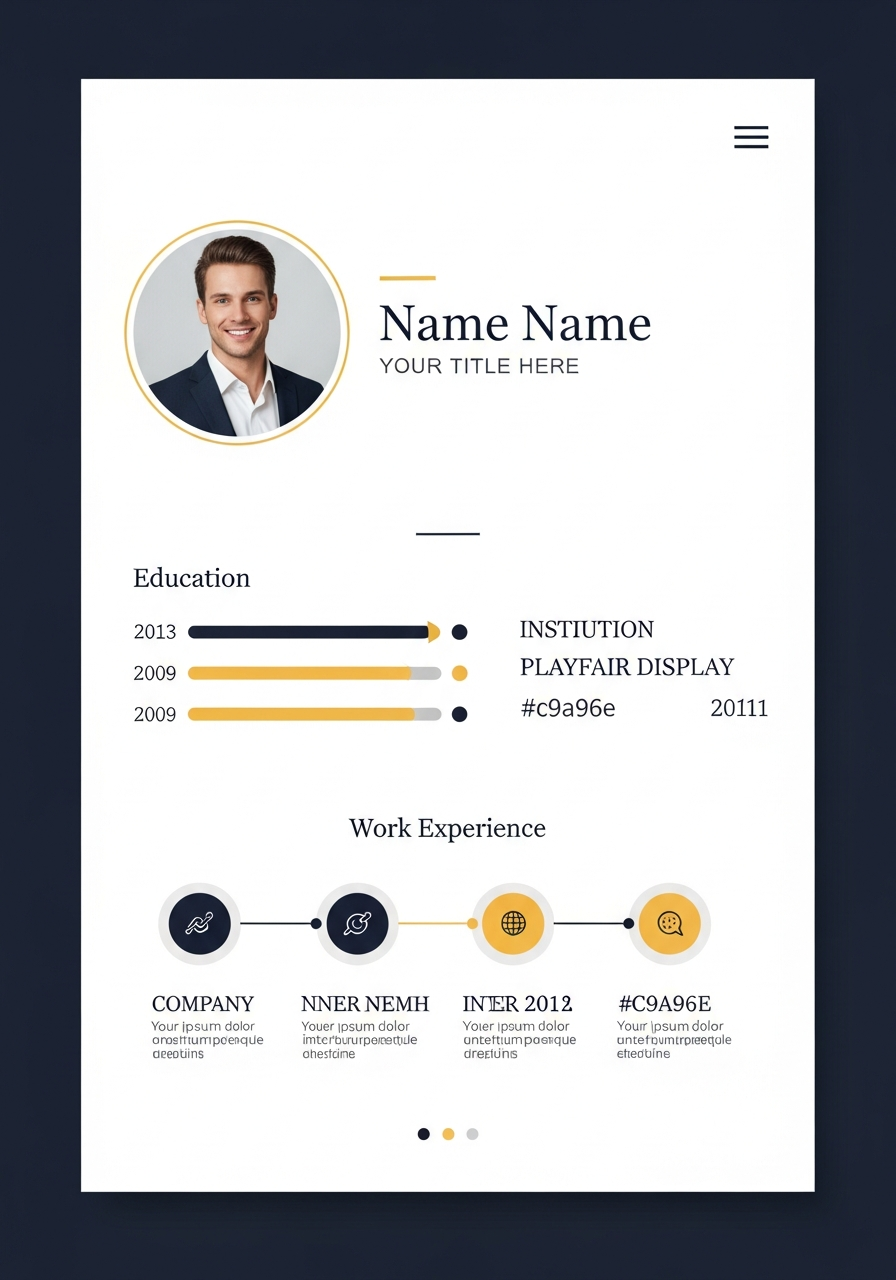
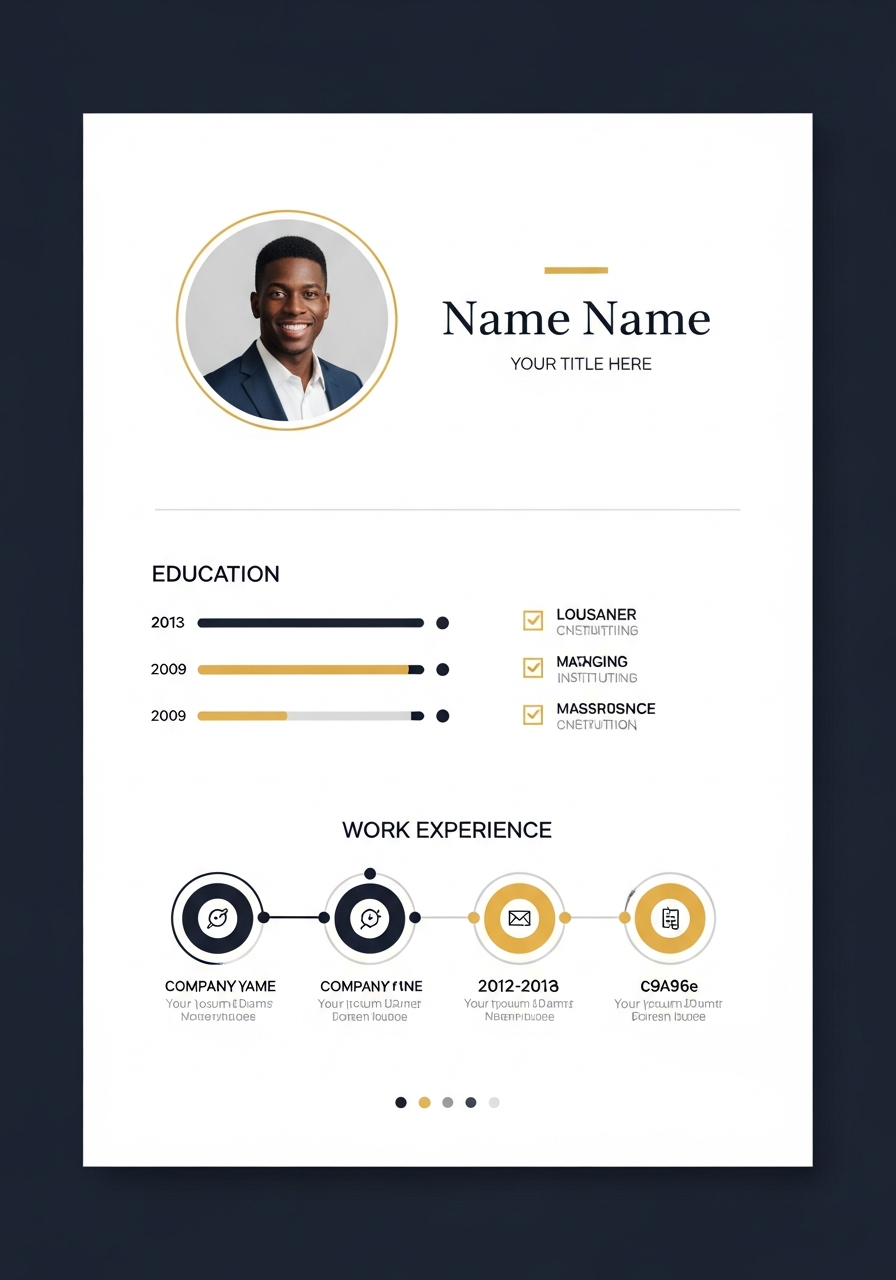
Add a back button and remove hamburger menu from minimalist template preview
Update the minimalist template preview by adding a back link and removing the hamburger menu icon. Also updates the associated screenshot.

Replit-Commit-Author: Agent
Replit-Commit-Session-Id: 9d698cb2-94c7-4a1a-83f7-568c51fffbb6
Replit-Commit-Checkpoint-Type: full_checkpoint
Replit-Commit-Event-Id: 1bbf655c-e9cd-4efb-9b31-8e88ec08aba4
Replit-Commit-Screenshot-Url: https://storage.googleapis.com/screenshot-production-us-central1/1f5fe7d4-1cdf-4b6f-b09e-05f67c314425/9d698cb2-94c7-4a1a-83f7-568c51fffbb6/c8sk4jp
Replit-Helium-Checkpoint-Created: true

diff --git a/portfolio_app/templates/template-previews/minimalist.html b/portfolio_app/templates/template-previews/minimalist.html
@@ -28,6 +28,27 @@
             padding: 40px 20px;
         }
 
+        .back-link {
+            position: fixed;
+            top: 20px;
+            left: 20px;
+            z-index: 1000;
+            background: #1a1a2e;
+            color: #c9a96e;
+            padding: 8px 16px;
+            border-radius: 4px;
+            text-decoration: none;
+            font-size: 0.85rem;
+            font-weight: 500;
+            transition: all 0.3s;
+            border: 1px solid #c9a96e;
+        }
+
+        .back-link:hover {
+            background: #c9a96e;
+            color: #1a1a2e;
+        }
+
         .portfolio-page {
             background: #ffffff;
             max-width: 800px;
@@ -36,26 +57,6 @@
             box-shadow: 0 20px 60px rgba(0,0,0,0.3);
             overflow: hidden;
             padding: 0;
-        }
-
-        .top-bar {
-            display: flex;
-            justify-content: flex-end;
-            padding: 24px 40px 0;
-        }
-
-        .hamburger {
-            display: flex;
-            flex-direction: column;
-            gap: 5px;
-            cursor: pointer;
-        }
-
-        .hamburger span {
-            width: 24px;
-            height: 2px;
-            background: #333;
-            border-radius: 2px;
         }
 
         .hero-section {
@@ -670,15 +671,11 @@
     </style>
 </head>
 <body>
-    <div class="portfolio-page">
-        <div class="top-bar">
-            <div class="hamburger">
-                <span></span>
-                <span></span>
-                <span></span>
-            </div>
-        </div>
+    <a href="{% url 'home' %}#templates" class="back-link">
+        <i class="fas fa-arrow-left me-1"></i> Back
+    </a>
 
+    <div class="portfolio-page">
         <div class="hero-section">
             <div class="hero-photo">
                 {% if profilephoto and profilephoto.profile_photo %}
